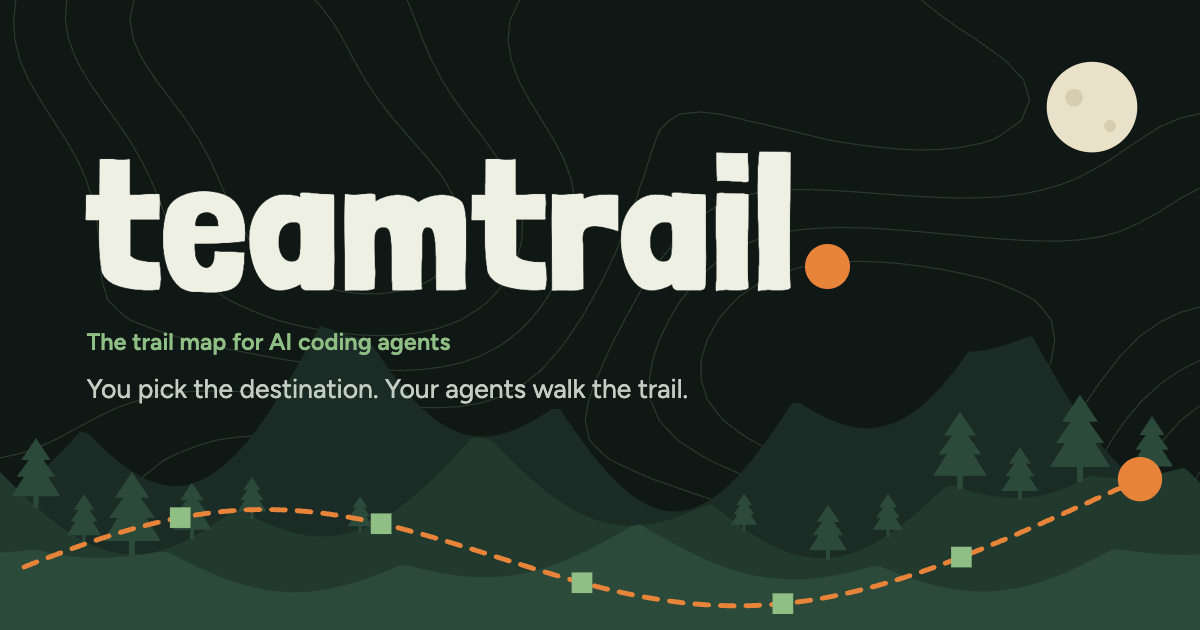
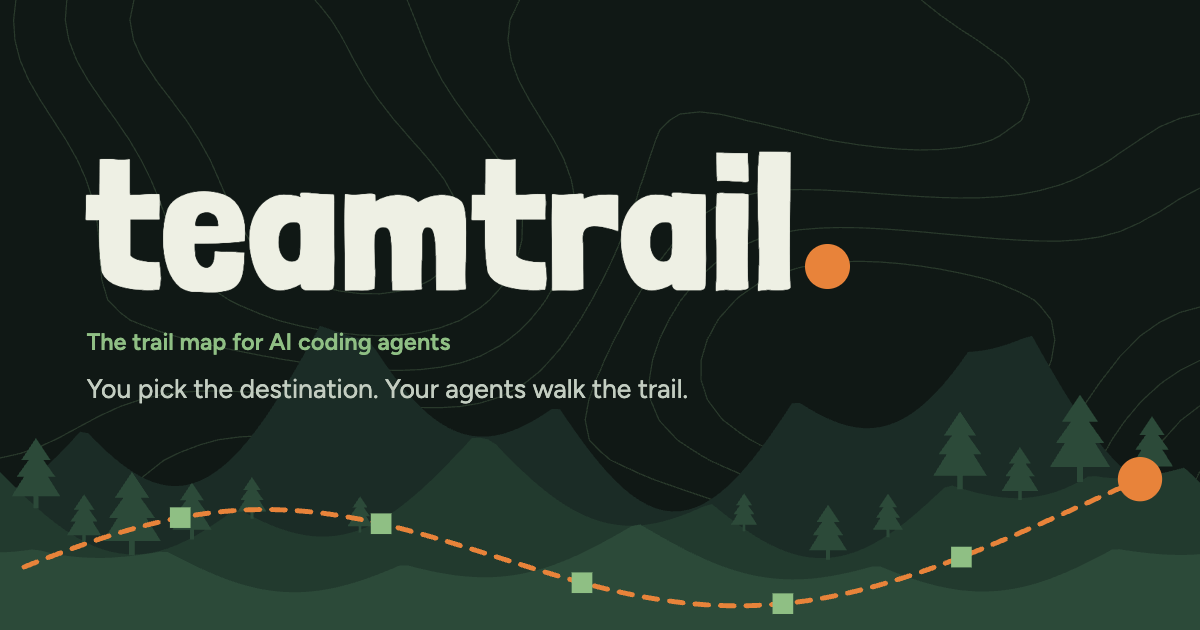
Brand: no moon in the OG image; the teamtrail. wordmark in the nav and footer (#34)
* Brand: the OG image without the moon

* Brand: the teamtrail. wordmark in the nav and footer

The nav and footer show the outlined teamtrail. wordmark (#tt-wordmark), ink and dot per theme; #tt-logo stays
for square spaces. The README states the rule: square spaces take the t. mark, wide ones the wordmark.

---------

Changed region(s): [[0.8633, 0.0905, 0.9558, 0.2413]]

diff --git a/partials/sprite.html b/partials/sprite.html
@@ -29,4 +29,13 @@
       <circle cx="177" cy="173" r="28" fill="var(--tt-logo-dot)" />
     </g>
   </symbol>
+  <!-- The teamtrail. wordmark, outlined Londrina Solid 900: for spaces wider than tall (square ones take #tt-logo).
+       Ink and dot come from --tt-wordmark-* (src/styles.css), so it follows the day and night theme. -->
+  <symbol id="tt-wordmark" viewBox="-4.40 -77.20 414.70 83.00">
+    <path
+      fill="var(--tt-wordmark-ink)"
+      d="M23-50.90L23.10-49.90Q28.30-50.10 32.30-50.40L32.30-50.40L33.70-50.50Q34.40-50.60 35.15-50.55Q35.90-50.50 36.40-50.50L36.40-50.50L38.70-50.50Q39.10-46.50 39.10-45.90L39.10-45.90Q39.10-45.40 38.90-42.80L38.90-42.80L38.80-41.70L38.70-39.50Q38.70-38.80 38.90-37.20L38.90-37.20L23.30-37.20Q23.30-21.30 23.20-17.70L23.20-17.70Q24.70-15.80 28.60-14.90Q32.50-14 36.70-14L36.70-14L38.80-14.10L38.80-13.20L38.90-12.80L38.90-12.90Q39.50-8.70 39.50-5.40L39.50-5.40Q39.50-2.20 38.60 0.40L38.60 0.40Q36 0.60 33.30 0.60L33.30 0.60Q24.20 0.60 17.35-1.55Q10.50-3.70 8.30-8.90L8.30-8.90Q7.40-14.30 7.10-19.65Q6.80-25 6.80-31.90L6.80-31.90L6.80-36.90Q5.50-36.80 4.45-36.85Q3.40-36.90 2.60-36.90L2.60-36.90L-0.40-36.90L-0.10-50.10Q2.60-50 7-50L7-50L7.10-69.10Q9.30-69.30 10.90-69.30L10.90-69.30Q12.50-69.30 14.70-69.10L14.70-69.10L15.40-69Q17.80-68.80 19.10-68.80L19.10-68.80Q21-68.80 23-69.10L23-69.10L23-50.90ZM57.60-22.20Q57.70-18.90 57.95-17.35Q58.20-15.80 59.30-14.10L59.30-14.10Q60.10-12.60 61.40-11.80Q62.70-11 64.10-11L64.10-11Q66.20-11 67.50-13.25Q68.80-15.50 68.60-19.90L68.60-19.90Q71.50-19.50 74.80-19.70L74.80-19.70L84.20-19.20Q84.20-14.70 83.55-10.10Q82.90-5.50 81.10-3.10L81.10-3.10Q79.10-0.30 75.35 0.75Q71.60 1.80 66.60 1.80L66.60 1.80Q64.70 1.80 61.30 1.60L61.30 1.60Q59.70 1.50 56.60 1.50L56.60 1.50Q53.50 1.10 50.40-0.70L50.40-0.70Q45.60-4.50 43.30-11.50Q41-18.50 41-26.70L41-26.70Q41-35.30 43.40-42.50L43.40-42.50Q45.40-47 50.80-49.50Q56.20-52 62.80-52L62.80-52Q66.40-52 69.80-51.20L69.80-51.20Q77.50-49.70 81.05-43.95Q84.60-38.20 84.60-30.20L84.60-30.20Q84.60-28.90 84.40-25.70L84.40-25.70Q82.50-25.20 75.70-24.75Q68.90-24.30 63-24.30L63-24.30L57.60-24.30L57.60-22.20ZM67.40-40.20Q65.90-41.10 64.70-41.10L64.70-41.10Q61.20-41.10 59.70-39.50Q58.20-37.90 57.90-35L57.90-35Q57.80-34.60 57.80-34.10L57.80-34.10Q57.80-33.50 58.40-33.40Q59-33.30 61.40-33.40L61.40-33.40L65.80-33.40L68.80-33.30L70.10-33.30Q70.40-33.20 70.50-33.30Q70.60-33.40 70.60-33.70L70.60-33.70L70.60-34.10Q70.60-36.20 69.85-37.80Q69.10-39.40 67.80-40.10L67.80-40.10L67.40-40.20ZM132-50.30Q132-49.80 132.15-48.60Q132.30-47.40 132.30-46.40L132.30-46.40Q132.20-43.80 132.20-38.60L132.20-38.60Q132.20-31.60 132.30-28.10L132.30-28.10L132.30-22.10L132.40-16.10Q132.40-10.20 132.10-4L132.10-4L132.10-3Q132.10-1.40 131.70-0.55Q131.30 0.30 129.60 0.60L129.60 0.60L116.90 0.60Q114.60-0.10 114.60-2.10L114.60-2.10L114.60-2.80Q112.10-1.20 109.10-0.25Q106.10 0.70 103.30 0.70L103.30 0.70Q98 0.70 94.35-3.60Q90.70-7.90 88.90-14.25Q87.10-20.60 87.10-26.60L87.10-26.60Q87.10-33.20 89.50-38.55Q91.90-43.90 96.10-47Q100.30-50.10 105.40-50.20L105.40-50.20Q108.50-50.20 111.20-49.70Q113.90-49.20 114.60-48.50L114.60-48.50Q114.60-49 114.40-49.80Q114.20-50.60 114.50-51L114.50-51Q114.70-51.20 115.90-51.20L115.90-51.20Q117.70-51.20 120.65-50.95Q123.60-50.70 124.40-50.60L124.40-50.60L130.70-50.30L132-50.30ZM102.40-24.60Q102.40-20.20 104.40-17.25Q106.40-14.30 109.80-14.30L109.80-14.30Q112-14.30 113-15.50Q114-16.70 114.25-18.70Q114.50-20.70 114.50-24.70L114.50-24.70L114.50-27.30Q114.50-31.60 114.35-33.15Q114.20-34.70 113.45-35.25Q112.70-35.80 110.80-35.80L110.80-35.80Q107.60-35.80 105.60-34.05Q103.60-32.30 103-29.80L103-29.80Q102.40-27.80 102.40-24.60L102.40-24.60ZM154.40-46.40Q154.50-46.40 154.45-46.45Q154.40-46.50 154.50-46.50L154.50-46.50Q156.90-48.10 160.05-49.05Q163.20-50 166.30-50L166.30-50Q172.90-50 176.50-46.80L176.50-46.80Q176.50-46.70 177.10-46.10L177.10-46.10Q177.20-46.10 177.10-46.05Q177-46 177.10-45.90L177.10-45.90L178-46.50Q180.40-48.10 183.50-49.05Q186.60-50 189.80-50L189.80-50Q196.40-50 200-46.80L200-46.80Q202.80-44.30 202.80-30.30L202.80-30.30Q202.80-26.20 202.60-17.80L202.60-17.80Q202.40-10.60 202.40-7.50L202.40-7.50Q202.40-4.10 202.60 0.10L202.60 0.10Q197.10 0.90 191.80 0.70L191.80 0.70L187.10 0.70Q186.90-2.30 186.90-10.90L186.90-10.90L186.90-15.90Q186.90-21.50 186.60-24.30L186.60-24.30Q186.10-29.50 185.20-31.30Q184.30-33.10 182.10-33.10L182.10-33.10Q181.10-33.10 180.40-32.35Q179.70-31.60 179.30-29.30L179.30-29.30Q179.30-25.10 179.10-16.30L179.10-16.30Q178.90-9.70 178.90-6.80L178.90-6.80Q178.90-3.70 179.10 0.10L179.10 0.10Q173.60 0.90 168.30 0.70L168.30 0.70L163.60 0.70Q163.40-2.30 163.40-10.90L163.40-10.90L163.40-15.90Q163.40-20.80 163.20-23L163.20-23Q163.20-23.10 163.15-23.35Q163.10-23.60 163.10-24.30L163.10-24.30Q162.90-27.60 162.45-29.70Q162-31.80 160.80-32.60L160.80-32.60Q160-33.10 158.50-33.10L158.50-33.10Q156.70-33.10 155.30-31.80Q153.90-30.50 153.80-27.50L153.80-27.50Q153.70-26 153.70-22.90L153.70-22.90Q153.70-20.40 153.90-15.60L153.90-15.60Q154.10-10.60 154.10-8.10L154.10-8.10Q154.10-3.60 153.70-0.10L153.70-0.10Q151 0.60 149.35 0.75Q147.70 0.90 145.70 0.80L145.70 0.80Q144.80 0.70 142.80 0.70L142.80 0.70Q140.50 0.70 138.30 0.90L138.30 0.90Q138.30-11.10 138.20-16.90L138.20-16.90Q138-29.90 138-36.60L138-36.60Q138-41.50 138.20-50.50L138.20-50.50Q141.40-50.10 143.20-50.10L143.20-50.10Q144.90-50.10 146.50-50.30L146.50-50.30L148.20-50.50Q150.40-50.70 151.60-50.70L151.60-50.70Q154-50.70 154.20-50L154.20-50Q154.40-48.80 154.40-46.50L154.40-46.50L154.40-46.40ZM229.30-50.90L229.40-49.90Q234.60-50.10 238.60-50.40L238.60-50.40L240-50.50Q240.70-50.60 241.45-50.55Q242.20-50.50 242.70-50.50L242.70-50.50L245-50.50Q245.40-46.50 245.40-45.90L245.40-45.90Q245.40-45.40 245.20-42.80L245.20-42.80L245.10-41.70L245-39.50Q245-38.80 245.20-37.20L245.20-37.20L229.60-37.20Q229.60-21.30 229.50-17.70L229.50-17.70Q231-15.80 234.90-14.90Q238.80-14 243-14L243-14L245.10-14.10L245.10-13.20L245.20-12.80L245.20-12.90Q245.80-8.70 245.80-5.40L245.80-5.40Q245.80-2.20 244.90 0.40L244.90 0.40Q242.30 0.60 239.60 0.60L239.60 0.60Q230.50 0.60 223.65-1.55Q216.80-3.70 214.60-8.90L214.60-8.90Q213.70-14.30 213.40-19.65Q213.10-25 213.10-31.90L213.10-31.90L213.10-36.90Q211.80-36.80 210.75-36.85Q209.70-36.90 208.90-36.90L208.90-36.90L205.90-36.90L206.20-50.10Q208.90-50 213.30-50L213.30-50L213.40-69.10Q215.60-69.30 217.20-69.30L217.20-69.30Q218.80-69.30 221-69.10L221-69.10L221.70-69Q224.10-68.80 225.40-68.80L225.40-68.80Q227.30-68.80 229.30-69.10L229.30-69.10L229.30-50.90ZM265.60-47.90Q266.10-48 266.85-48.35Q267.60-48.70 268.30-48.90L268.30-48.90Q272.50-50.20 279.20-50.20L279.20-50.20Q284.10-50.20 284.10-49.70L284.10-49.70L284-44.50L284.10-31L281.40-31.90L275.60-33.30Q273.20-33.60 271.30-33.60L271.30-33.60Q268.20-33.60 266.60-32.10Q265-30.60 265.10-26.90L265.10-26.90Q265.50-14.60 265.50-0.10L265.50-0.10Q262.90 0.60 261.20 0.75Q259.50 0.90 256.90 0.80L256.90 0.80Q255.90 0.70 253.70 0.70L253.70 0.70Q251.30 0.70 249.10 0.90L249.10 0.90Q249.10-11.10 249-16.90L249-16.90Q248.80-29.90 248.80-36.60L248.80-36.60Q248.80-41.50 249-50.50L249-50.50Q252.20-50.10 254-50.10L254-50.10Q256.60-50.10 259.10-50.40L259.10-50.40Q261.50-50.70 263.80-50.70L263.80-50.70Q265.50-50.70 265.50-50.40L265.50-50.40L265.60-48L265.60-47.90ZM330.70-50.30Q330.70-49.80 330.85-48.60Q331.00-47.40 331.00-46.40L331.00-46.40Q330.90-43.80 330.90-38.60L330.90-38.60Q330.90-31.60 331.00-28.10L331.00-28.10L331.00-22.10L331.10-16.10Q331.10-10.20 330.80-4L330.80-4L330.80-3Q330.80-1.40 330.40-0.55Q330.00 0.30 328.30 0.60L328.30 0.60L315.60 0.60Q313.30-0.10 313.30-2.10L313.30-2.10L313.30-2.80Q310.80-1.20 307.80-0.25Q304.80 0.70 302.00 0.70L302.00 0.70Q296.70 0.70 293.05-3.60Q289.40-7.90 287.60-14.25Q285.80-20.60 285.80-26.60L285.80-26.60Q285.80-33.20 288.20-38.55Q290.60-43.90 294.80-47Q299.00-50.10 304.10-50.20L304.10-50.20Q307.20-50.20 309.90-49.70Q312.60-49.20 313.30-48.50L313.30-48.50Q313.30-49 313.10-49.80Q312.90-50.60 313.20-51L313.20-51Q313.40-51.20 314.60-51.20L314.60-51.20Q316.40-51.20 319.35-50.95Q322.30-50.70 323.10-50.60L323.10-50.60L329.40-50.30L330.70-50.30ZM301.10-24.60Q301.10-20.20 303.10-17.25Q305.10-14.30 308.50-14.30L308.50-14.30Q310.70-14.30 311.70-15.50Q312.70-16.70 312.95-18.70Q313.20-20.70 313.20-24.70L313.20-24.70L313.20-27.30Q313.20-31.60 313.05-33.15Q312.90-34.70 312.15-35.25Q311.40-35.80 309.50-35.80L309.50-35.80Q306.30-35.80 304.30-34.05Q302.30-32.30 301.70-29.80L301.70-29.80Q301.10-27.80 301.10-24.60L301.10-24.60ZM353.40-72.30Q353.40-69.60 353.50-67.80L353.50-67.80Q353.50-66.80 353.70-64.20L353.70-64.20L353.90-57.80Q353.40-57.20 352.30-57.20L352.30-57.20Q351.60-57.20 350.40-57.35Q349.20-57.50 348.40-57.50L348.40-57.50Q347.20-57.50 344.60-57.70L344.60-57.70Q343.60-57.80 341.20-57.80L341.20-57.80Q338.60-57.80 337.20-57.70L337.20-57.70Q337.20-59.80 337-63.20L337-63.20L336.90-64.80Q336.70-69.20 336.80-72.60L336.80-72.60L353.40-72.30ZM353.80-50.30Q353.80-45.10 353.60-35.10L353.60-35.10L353.50-29.50Q353.30-20.30 353.30-15.70L353.30-15.70Q353.30-7.10 353.70-0.60L353.70-0.60Q353.20 0.10 351.65 0.35Q350.10 0.60 347.40 0.60L347.40 0.60Q344.30 0.60 343.10 0.50L343.10 0.50Q339.20 0.30 336.50 1.10L336.50 1.10Q337-5.60 337-12.40L337-12.40Q337-16.60 336.80-24.80L336.80-24.80Q336.60-31.60 336.60-36.60L336.60-36.60Q336.60-44 337.20-50.90L337.20-50.90Q338.60-51.10 339.60-51.10L339.60-51.10Q340.50-51.10 341-51L341-51Q347.20-50.70 350.70-50.80L350.70-50.80L353.80-50.30ZM376.30-72.90L376.10-55.10L376.10-52.20L376-42.40Q375.80-27.80 375.80-20.60L375.80-20.60Q375.80-7.10 376.20-0.60L376.20-0.60Q375.70 0.10 374.15 0.35Q372.60 0.60 369.90 0.60L369.90 0.60Q366.80 0.60 365.60 0.50L365.60 0.50Q361.70 0.30 359 1.10L359 1.10Q359.70-8.50 359.70-16.70L359.70-16.70Q359.70-22.70 359.30-34.70L359.30-34.70Q358.90-47.70 358.90-54.30L358.90-54.30Q358.90-64.30 359.80-73.20L359.80-73.20L376.30-72.90Z"
+    />
+    <circle cx="394.30" cy="-12" r="12" fill="var(--tt-wordmark-dot)" />
+  </symbol>
 </svg>

diff --git a/src/styles.css b/src/styles.css
@@ -29,6 +29,8 @@
   --tt-logo-edge: #d3e2cd;
   --tt-logo-mark: #4f8a48;
   --tt-logo-dot: #e07a2f;
+  --tt-wordmark-ink: #16302a;
+  --tt-wordmark-dot: #e07a2f;
   --lede: #4a5f4e;
   --urgent: #c4301f;
   --urgent-rgb: 196, 48, 31;
@@ -77,6 +79,8 @@
     --tt-logo-edge: #2a3a31;
     --tt-logo-mark: #8fbf84;
     --tt-logo-dot: #e8833a;
+    --tt-wordmark-ink: #eef0e4;
+    --tt-wordmark-dot: #e8833a;
     --lede: #b7cab3;
     --urgent: #ff6b5c;
     --urgent-rgb: 255, 107, 92;
@@ -107,6 +111,8 @@
   --tt-logo-edge: #2a3a31;
   --tt-logo-mark: #8fbf84;
   --tt-logo-dot: #e8833a;
+  --tt-wordmark-ink: #eef0e4;
+  --tt-wordmark-dot: #e8833a;
   --lede: #b7cab3;
   --urgent: #ff6b5c;
   --urgent-rgb: 255, 107, 92;

diff --git a/partials/nav.html b/partials/nav.html
@@ -1,8 +1,8 @@
 <header class="nav" id="nav">
   <div class="wrap nav__inner">
     <a class="brand" href="/" aria-label="Teamtrail home">
-      <svg class="brand__logo" viewBox="0 0 200 200" width="40" height="40" aria-hidden="true">
-        <use href="#tt-logo" />
+      <svg class="brand__logo" viewBox="0 0 414.7 83" width="140" height="28" aria-hidden="true">
+        <use href="#tt-wordmark" />
       </svg>
     </a>
     <nav class="nav__links" aria-label="Main">

diff --git a/partials/footer.html b/partials/footer.html
@@ -1,8 +1,8 @@
 <footer class="footer">
   <div class="wrap footer__inner">
     <a class="brand" href="/" aria-label="Teamtrail home">
-      <svg class="brand__logo" viewBox="0 0 200 200" width="32" height="32" aria-hidden="true">
-        <use href="#tt-logo" />
+      <svg class="brand__logo" viewBox="0 0 414.7 83" width="120" height="24" aria-hidden="true">
+        <use href="#tt-wordmark" />
       </svg>
     </a>
     <nav aria-label="Footer">

diff --git a/README.md b/README.md
@@ -7,7 +7,7 @@ Static marketing site for [teamtrail.app](https://www.teamtrail.app): Vite + Typ
 - `guides/index.html`: guides, with one card per guide in the public catalog (see [Guide cards](#guide-cards)); each card opens its details in a dialog (`src/guideDialog.ts`).
 - `cloud/index.html`: Teamtrail Cloud (coming soon), with Scout on a pixel cloud (`src/cloudScene.ts`) and its own waitlist.
 
-Shared markup lives in `partials/` (`sprite`, `nav`, `footer`) and is pasted in at build time by `<!-- @include name -->` (see `vite.config.ts`).
+Shared markup lives in `partials/` (`sprite`, `nav`, `footer`) and is pasted in at build time by `<!-- @include name -->` (see `vite.config.ts`). The sprite holds the brand marks, coloured per theme by `--tt-wordmark-*` and `--tt-logo-*` in `src/styles.css`: `#tt-wordmark` (`teamtrail.`) for spaces wider than tall, like the nav and footer, and `#tt-logo` (`t.`) for square ones. Never both side by side.
 
 Type is Londrina Solid for headlines, Figtree for reading and JetBrains Mono for code, both self-hosted through `@fontsource`. JS adds the hero background (`src/heroField.ts`, with the map in `src/hero/`, paused off-screen, a still frame with reduced motion), the install box that types through `npx teamtrail` and the Claude Code and Codex connect commands (`src/cmdCycle.ts`), the looping explainer video (muted, no controls, paused off-screen), the badge scramble, scroll reveals, copy buttons, the Scout avatar and the waitlist form. The pages read fine without it.
 
